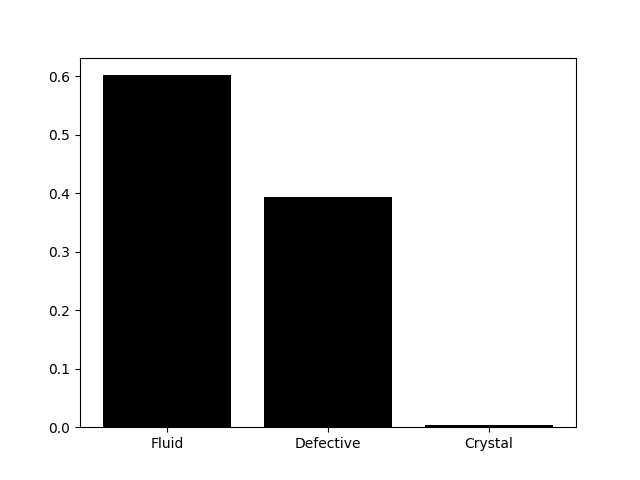
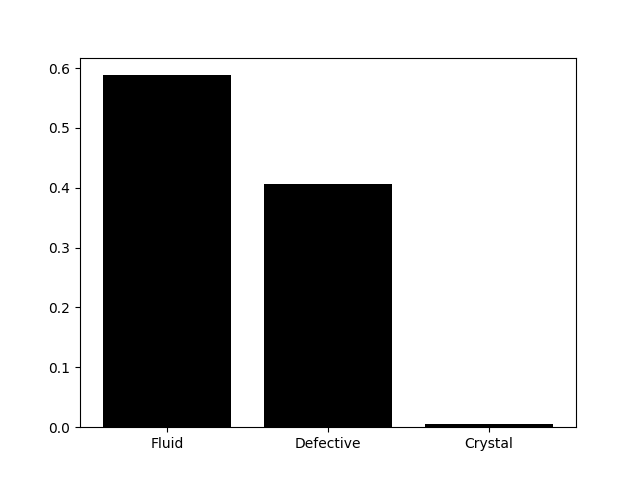
implemented DSNN

diff --git a/main.py b/main.py
@@ -29,13 +29,14 @@ step = 1
 
 #Create the models
 cnn_model = img_class.createCNN(summary=False)
-snn_model = trayectory.createDNN(step,summary=False)
+#snn_model = trayectory.createDNN(step,summary=False)
 #snn_model = trayectory.createCSNN(step,summary=True)
+snn_model = trayectory.createDSNN(step,summary=False)
 
 
 #Train the models
 cnn_training_flag = False
-snn_training_flag = False
+snn_training_flag = True
 
 if cnn_training_flag:
 	weigth_file = save_model_path+cnn_weights_name+'.h5'
@@ -102,9 +103,9 @@ if snn_test_flag:
 			print(sum(pred_dist[0]))
 
 ###########Generate transition probabilities############################
-trans_prob = True
+trans_prob_DNN = False
 
-if trans_prob:
+if trans_prob_DNN:
 	n = 500
 	bars = ['Fluid','Defective','Crystal']
 	x_pos = np.arange(len(bars))
@@ -127,6 +128,33 @@ if trans_prob:
 										[0, 2],
 										nbins=3
 										),dtype=tf.float32) / n
+			print(empirical_prob)
+			plt.bar(x_pos,empirical_prob,color='black')
+			plt.savefig(fig_name)
+			plt.clf()
+
+###########Generate transition probabilities############################
+trans_prob_SNN = True
+
+if trans_prob_SNN:
+	n = 500
+	bars = ['Fluid','Defective','Crystal']
+	x_pos = np.arange(len(bars))
+	plt.yticks(color='black')
+	fig_path = './Results/DSNN/100s/MVR/Drop'
+	print('Calculating '+str(n)+' step transition probabilities...........')
+	for v in [1,2,3,4]:
+		for init in [0,1,2]:
+			empirical_prob = [0,0,0]
+			plt.xticks(x_pos, bars, color='black')
+			fig_name = fig_path+'MVRDS-L-S'+str(init)+'-V'+str(v)+'.png'
+			example_dict = {'Si': np.array([init]),
+							'V':np.array([v])}
+			print(example_dict)
+			for i in range(n):
+				probs = trayectory.runSNN(snn_model,example_dict)
+				state = np.argmax(probs[0])
+				empirical_prob[state] += 1
 			print(empirical_prob)
 			plt.bar(x_pos,empirical_prob,color='black')
 			plt.savefig(fig_name)

diff --git a/SNN/SNN.py b/SNN/SNN.py
@@ -194,6 +194,62 @@ class SNN():
 
 		return model
 
+	def createDSNN(self,step,summary=False):
+		'''
+		Function that creates and compile the SNN
+		args:
+			-step: time memory size
+		returns:
+			-model: stochastic/recurrent model.
+		''' 
+
+		FEATURE_NAMES = [
+			'Si',
+			'V']
+
+		inputs = {}
+		for name in FEATURE_NAMES:
+			inputs[name] = tf.keras.Input(shape=(1,), name=name)
+		
+		features = keras.layers.concatenate(list(inputs.values()))
+		features = layers.BatchNormalization()(features)
+
+		# Create hidden layers with weight uncertainty 
+		#using the DenseVariational layer.
+		for units in [16,32]:
+			features = layers.Dense(units=units,activation="sigmoid")(features)
+			featrues = layers.Dropout(0.2)
+
+		for units in [64,128]:
+			features = tfp.layers.DenseVariational(
+				units=units,
+				make_prior_fn=self.prior,
+				make_posterior_fn=self.posterior,
+				activation="sigmoid",
+				)(features)
+			featrues = layers.Dropout(0.2)
+
+		# The output is deterministic: a single point estimate.
+		outputs = layers.Dense(3, activation='softmax')(features)
+
+		model = keras.Model(inputs=inputs, outputs=outputs)
+
+		model.compile(
+			loss = 'categorical_crossentropy',
+			optimizer='adam'
+			)
+		if summary:
+			model.summary()
+			tf.keras.utils.plot_model(
+				model = model,
+				rankdir="TB",
+				dpi=72,
+				show_shapes=True
+				)
+
+		return model
+
+
 	def trainSNN(self,PATH,model,step,epochs=10,batch=16,plot=False):
 		'''
 		A function that trains a SNN given the model
